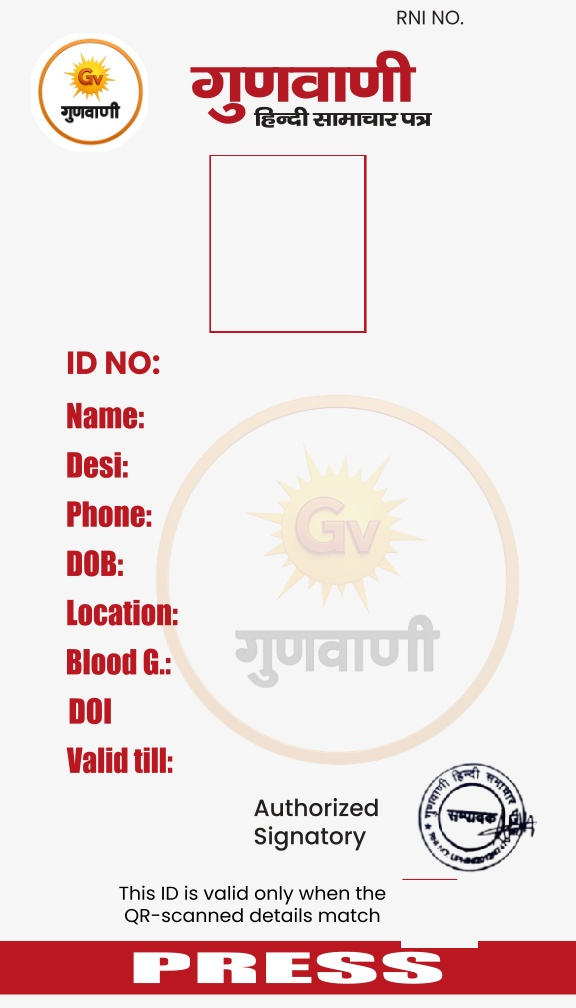
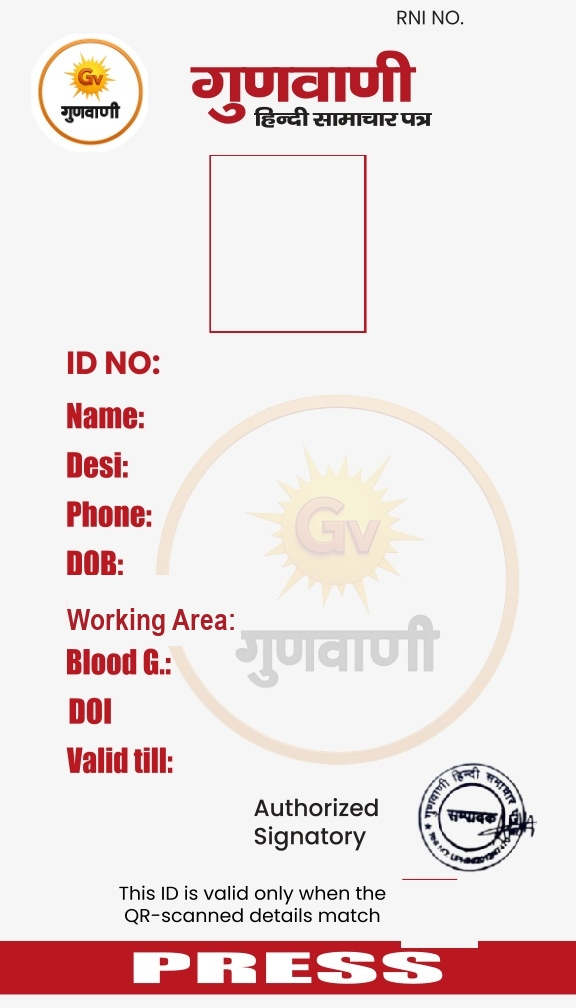
Fix Working Area label font match and alignment by updating template image instead of FPDF overlay

Changed region(s): [[0.0938, 0.5536, 0.4062, 0.6458]]

diff --git a/admin/generate_id.php b/admin/generate_id.php
@@ -207,8 +207,8 @@ try {
         }
     }
 
-    $leftX = 28.5; // Shifted further right to fit larger Working Area label
-    $cellWidth = 20.5; // Available space before the right edge
+    $leftX = 21.5; // Reduced by 1.5mm from 23mm
+    $cellWidth = 27.5; // Available space before the right edge
 
     // Adjusted Y-coordinates to align perfectly with the red labels on the new PDF template
     // Measured exactly from the template image pixels:
@@ -218,15 +218,6 @@ try {
     fixedText($pdf, $leftX, 40.1, $cellWidth, $m_designation, 'L', 7.8);
     fixedText($pdf, $leftX, 44.3, $cellWidth, $m_mobile, 'L', 7.8);
     fixedText($pdf, $leftX, 48.5, $cellWidth, $m_dob, 'L', 7.8);
-
-    // Dynamic patch: Change "Location:" label to "Working Area:"
-    $pdf->SetFillColor(246, 246, 246);
-    // Perfectly cover the old "Location:" text without touching "Blood G.:"
-    $pdf->Rect(2.0, 50.8, 19.0, 6.0, 'F');
-    $pdf->SetTextColor(167, 31, 41);
-    // Left-align the label to match X=5.9 of other labels, using size 8.0 to match visual thickness
-    fixedText($pdf, 5.9, 52.9, 22.5, 'Working Area:', 'L', 9.0, 'B');
-    $pdf->SetTextColor(0, 0, 0);
 
     fixedText($pdf, $leftX, 52.9, $cellWidth, $m_location, 'L', 7.8);
     fixedText($pdf, $leftX, 57.2, $cellWidth, $m_blood_group, 'L', 7.8);
